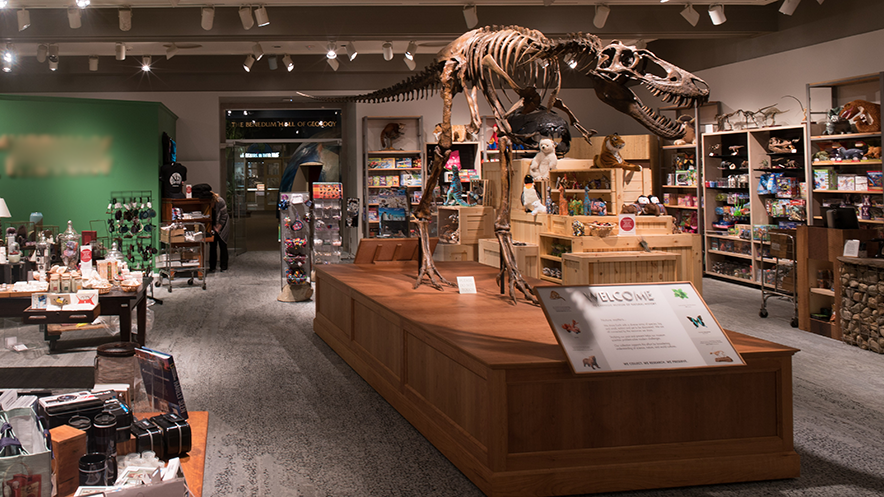
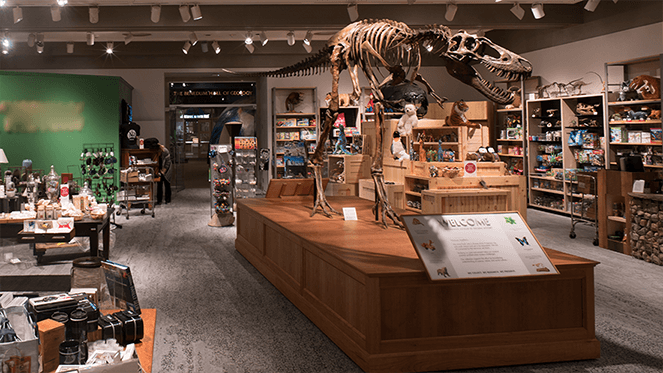
Made changes to visit.html, changed all img src to be below 200kb, and edited the html so img src links are correct

diff --git a/visit.html b/visit.html
@@ -136,24 +136,24 @@
             </ul>
             <div class="carousel-inner">
                 <div class="carousel-item active">
-                    <img src="images/mobile/exhibition-1863344_1920.jpg.png" alt="Bench in the space waiting room for kids" class="gallery galleryMobile">
-                    <img src="images/exhibition-1863344_1920.jpg.png" alt="Bench in the space waiting room for kids" class="gallery galleryDesktop">
+                    <img src="images/mobile/exhibition-1863344_1920.png" alt="Bench in the space waiting room for kids" class="gallery galleryMobile">
+                    <img src="images/exhibition-1863344_1920.png" alt="Bench in the space waiting room for kids" class="gallery galleryDesktop">
                 </div>
                 <div class="carousel-item">
-                    <img src="images/mobile/jesse-orrico-60373.jpg.png" alt="Human Head Monument" class="gallery galleryMobile"> 
-                    <img src="images/jesse-orrico-60373.jpg.png" alt="Human Head Monument" class="gallery galleryDesktop">
+                    <img src="images/mobile/jesse-orrico-60373.png" alt="Human Head Monument" class="gallery galleryMobile"> 
+                    <img src="images/jesse-orrico-60373.png" alt="Human Head Monument" class="gallery galleryDesktop">
                 </div>
                 <div class="carousel-item">
-                    <img src="images/mobile/toa-heftiba-412579.jpg.png" alt="Whale skeleton in the Main Lobby" class="gallery galleryMobile">
-                    <img src="images/toa-heftiba-412579.jpg.png" alt="Whale Skeleton in the main Lobby" class="gallery galleryDesktop">
+                    <img src="images/mobile/toa-heftiba-412579.png" alt="Whale skeleton in the Main Lobby" class="gallery galleryMobile">
+                    <img src="images/toa-heftiba-412579.png" alt="Whale Skeleton in the main Lobby" class="gallery galleryDesktop">
                 </div>
                 <div class="carousel-item">
-                    <img src="images/mobile/mavis-cw-164128.jpg.png" alt="Ancient Documents Libary" class="gallery galleryMobile">
-                    <img src="images/mavis-cw-164128.jpg.png" alt="Ancient Documents Libary" class="galleryDesktop">
+                    <img src="images/mobile/mavis-cw-164128.png" alt="Ancient Documents Libary" class="gallery galleryMobile">
+                    <img src="images/mavis-cw-164128.png" alt="Ancient Documents Libary" class="galleryDesktop">
                 </div>
                 <div class="carousel-item">
-                    <img src="images/mobile/william-bout-264826.jpg.png" alt="cealing og the spectrum glass libary" class="gallery galleryMobile">
-                    <img src="images/william-bout-264826.jpg.png" alt="cealing at the spectrum glass libary" class="gallery galleryDesktop">
+                    <img src="images/mobile/william-bout-264826.png" alt="cealing og the spectrum glass libary" class="gallery galleryMobile">
+                    <img src="images/william-bout-264826.png" alt="cealing at the spectrum glass libary" class="gallery galleryDesktop">
                 </div>
 <!---------Add more images to gallery? also link them to full quality------------------->
                 
@@ -185,7 +185,7 @@
                 <p>If you would like to organise a guided tour for your group of 6 or more people, please contact us to arrange the tour.</p>
                 <h2 class="fatFont head2">Food and Drink</h2>
                 <p>There is a café attached to the museum where you can get light lunches, soft drinks, coffee, snacks and more.</p>
-                <img src="images/meetings-1149198_1280.jpg" class="img-fluid" alt="Cafe next to the museum">
+                <img src="images/meetings-1149198_1280.png" class="img-fluid" alt="Cafe next to the museum">
             </div>
         </div>
     </div>
